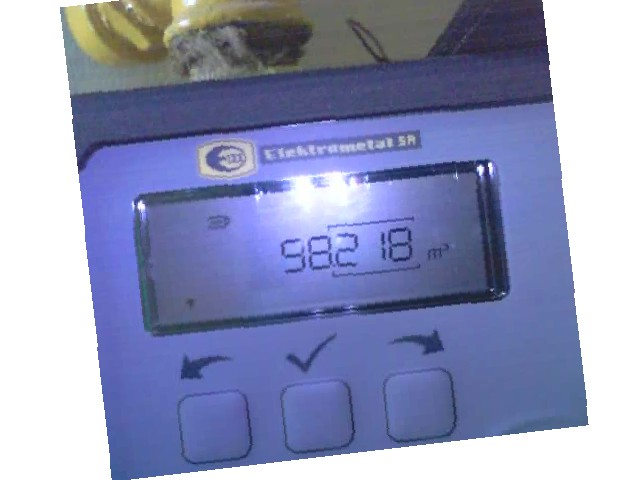
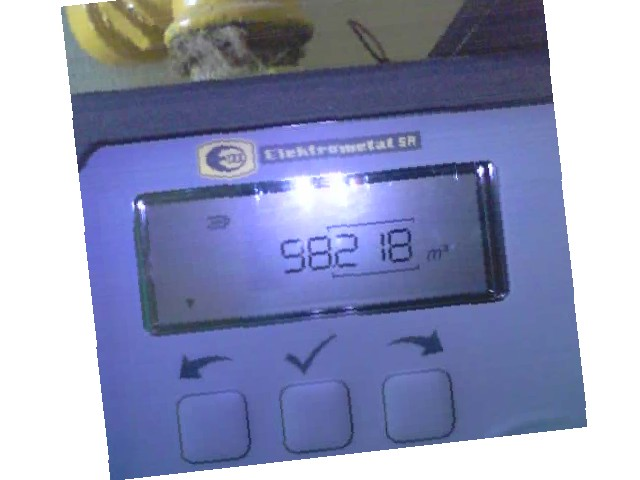
Automatyczna aktualizacja strony i danych

diff --git a/index.html b/index.html
@@ -35,11 +35,11 @@
 <body>
     <div class="container">
         <h1>Bieżący Stan Licznika</h1>
-        <div class="status">Ostatnia aktualizacja danych:<br><span class="timestamp">2026-10-27 13:26:25</span></div>
+        <div class="status">Ostatnia aktualizacja danych:<br><span class="timestamp">2026-10-27 13:31:53</span></div>
         <div class="odczyt">93498 m³</div>
         <div class="uwaga">Ostatni odczyt się nie powiódł, wyświetlana jest poprzednia poprawna wartość.</div>
         <h3>Aktualne zdjęcie z gazomierza:</h3>
-        <img src="img_tmp/alg.jpg?t=1793103985" alt="Zdjęcie licznika">
+        <img src="img_tmp/alg.jpg?t=1793104313" alt="Zdjęcie licznika">
     </div>
 </body>
 </html>
